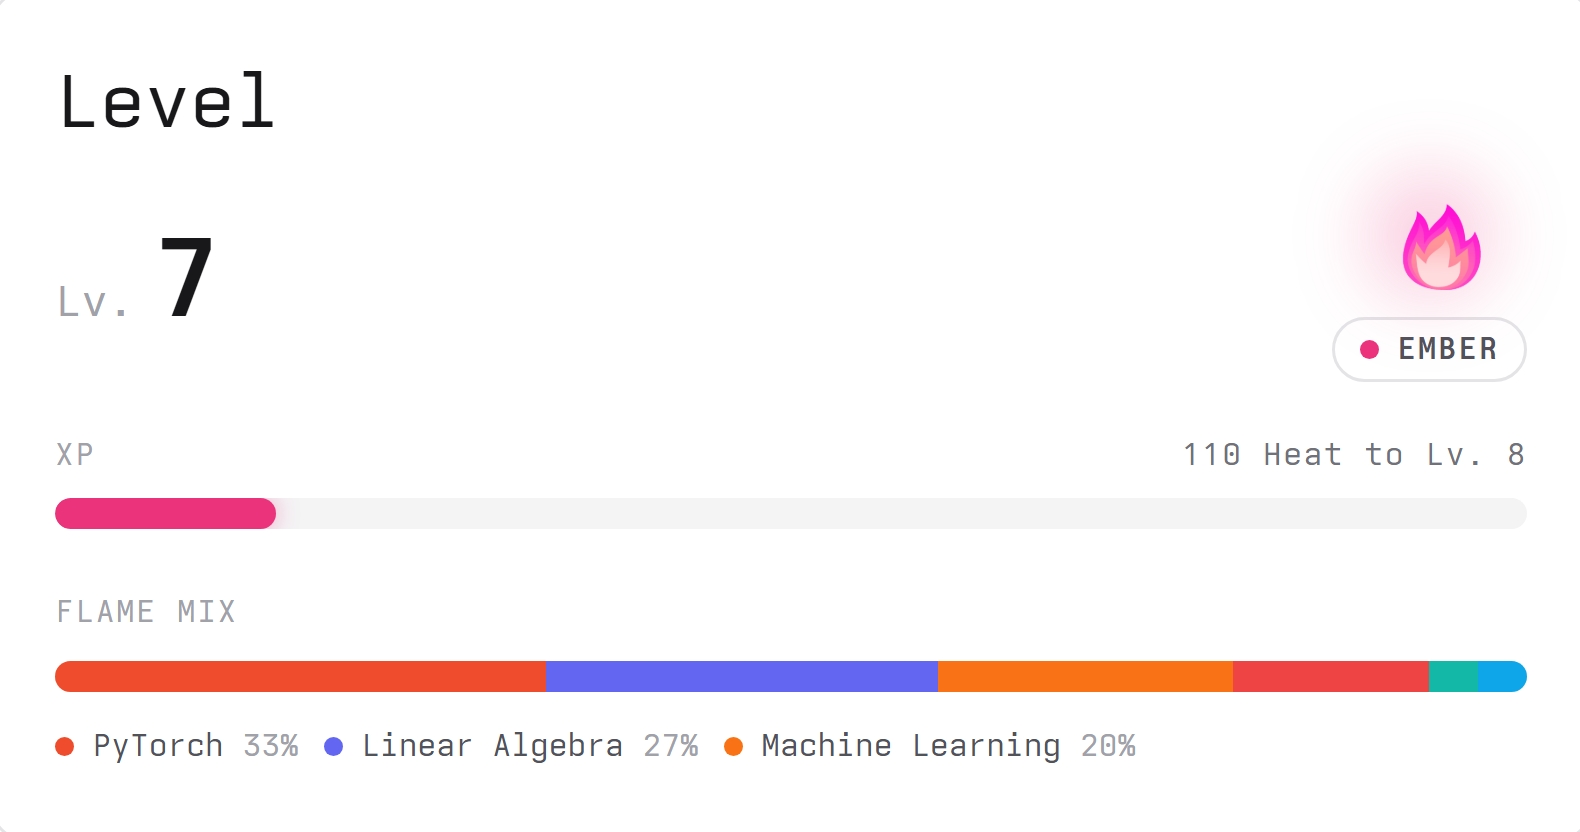
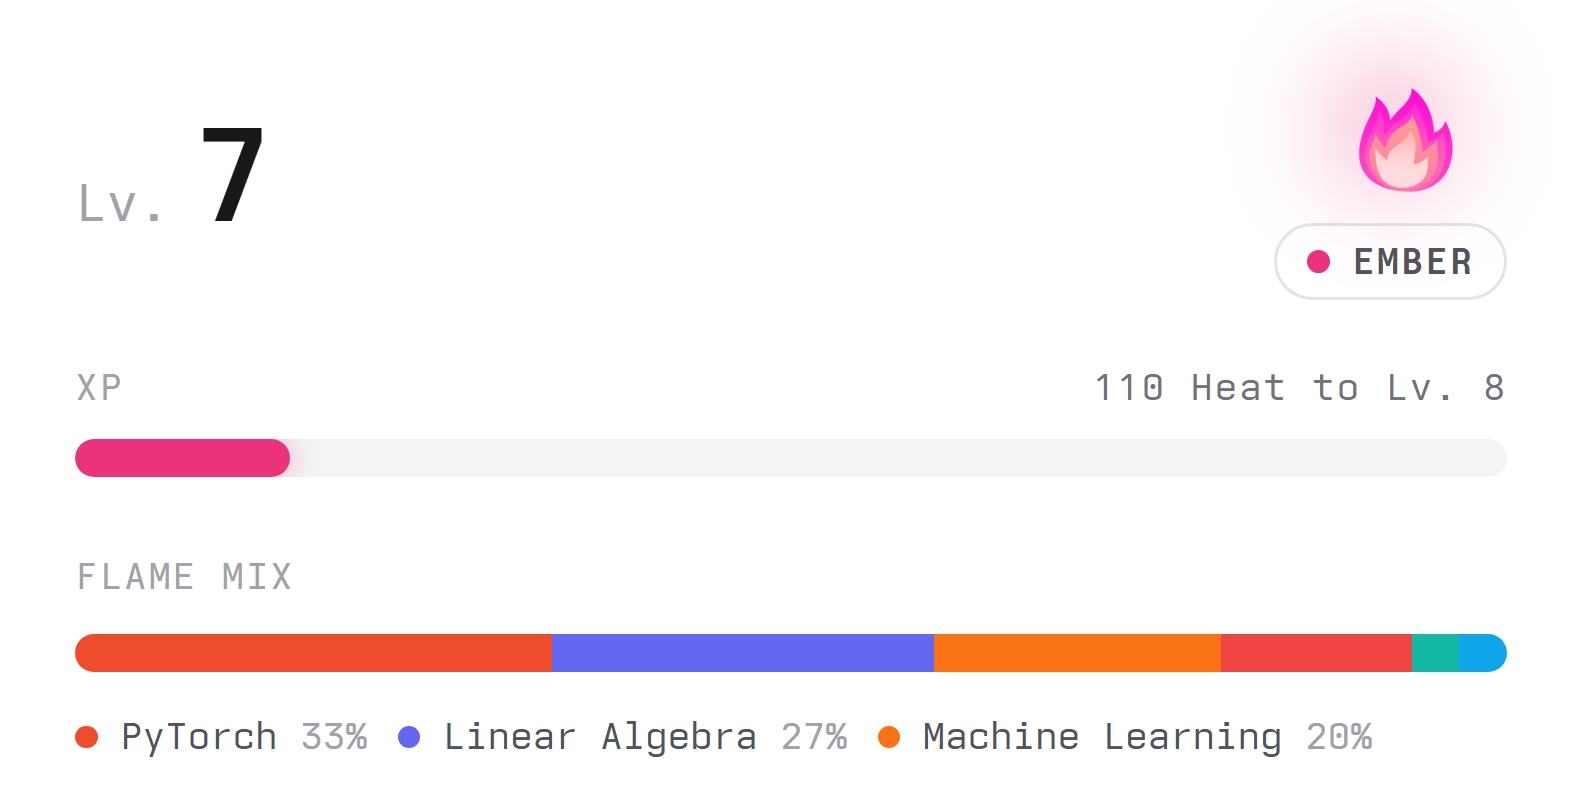
Update README

diff --git a/README.md b/README.md
@@ -2,4 +2,7 @@
 My solutions for [Deep-ML](https://www.deep-ml.com/) platform challenges.
 
 ## 📊 Progress
-![Deep-ML Progress](assets/deepml_stats.jpeg)
+
+<div align="center">
+  <img src="./assets/deepml_stats.jpeg" width="50%">
+</div>
